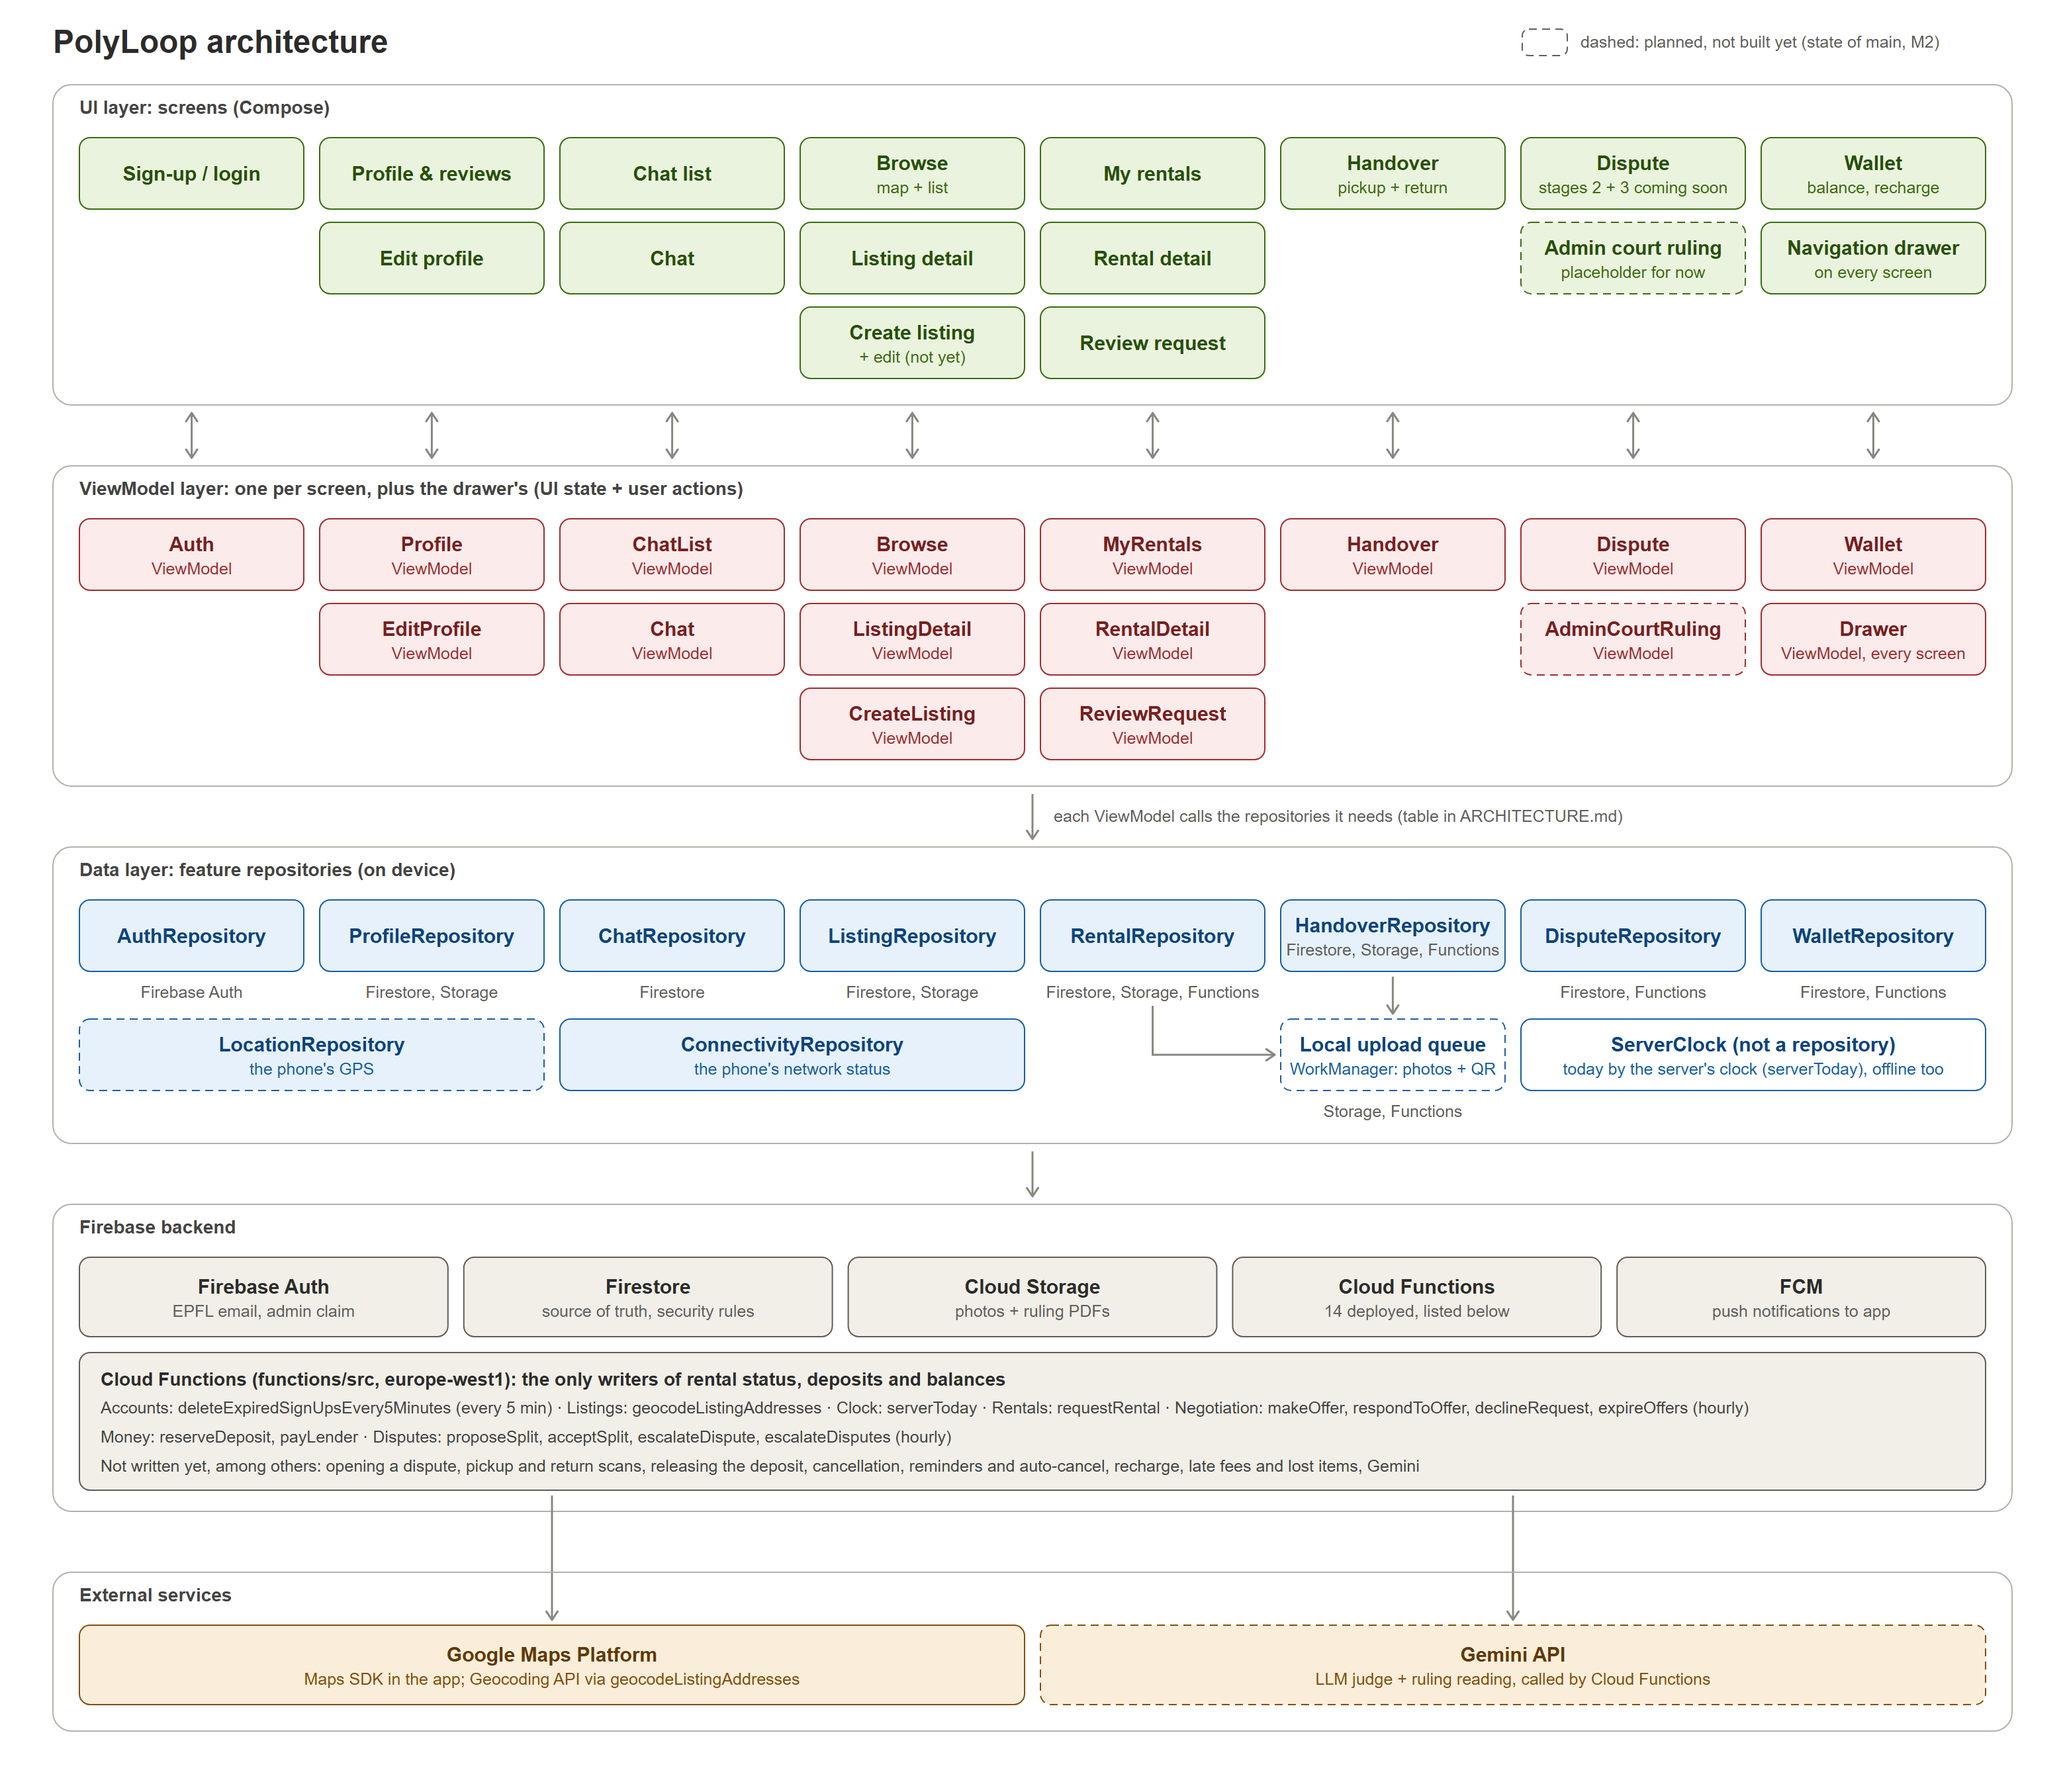
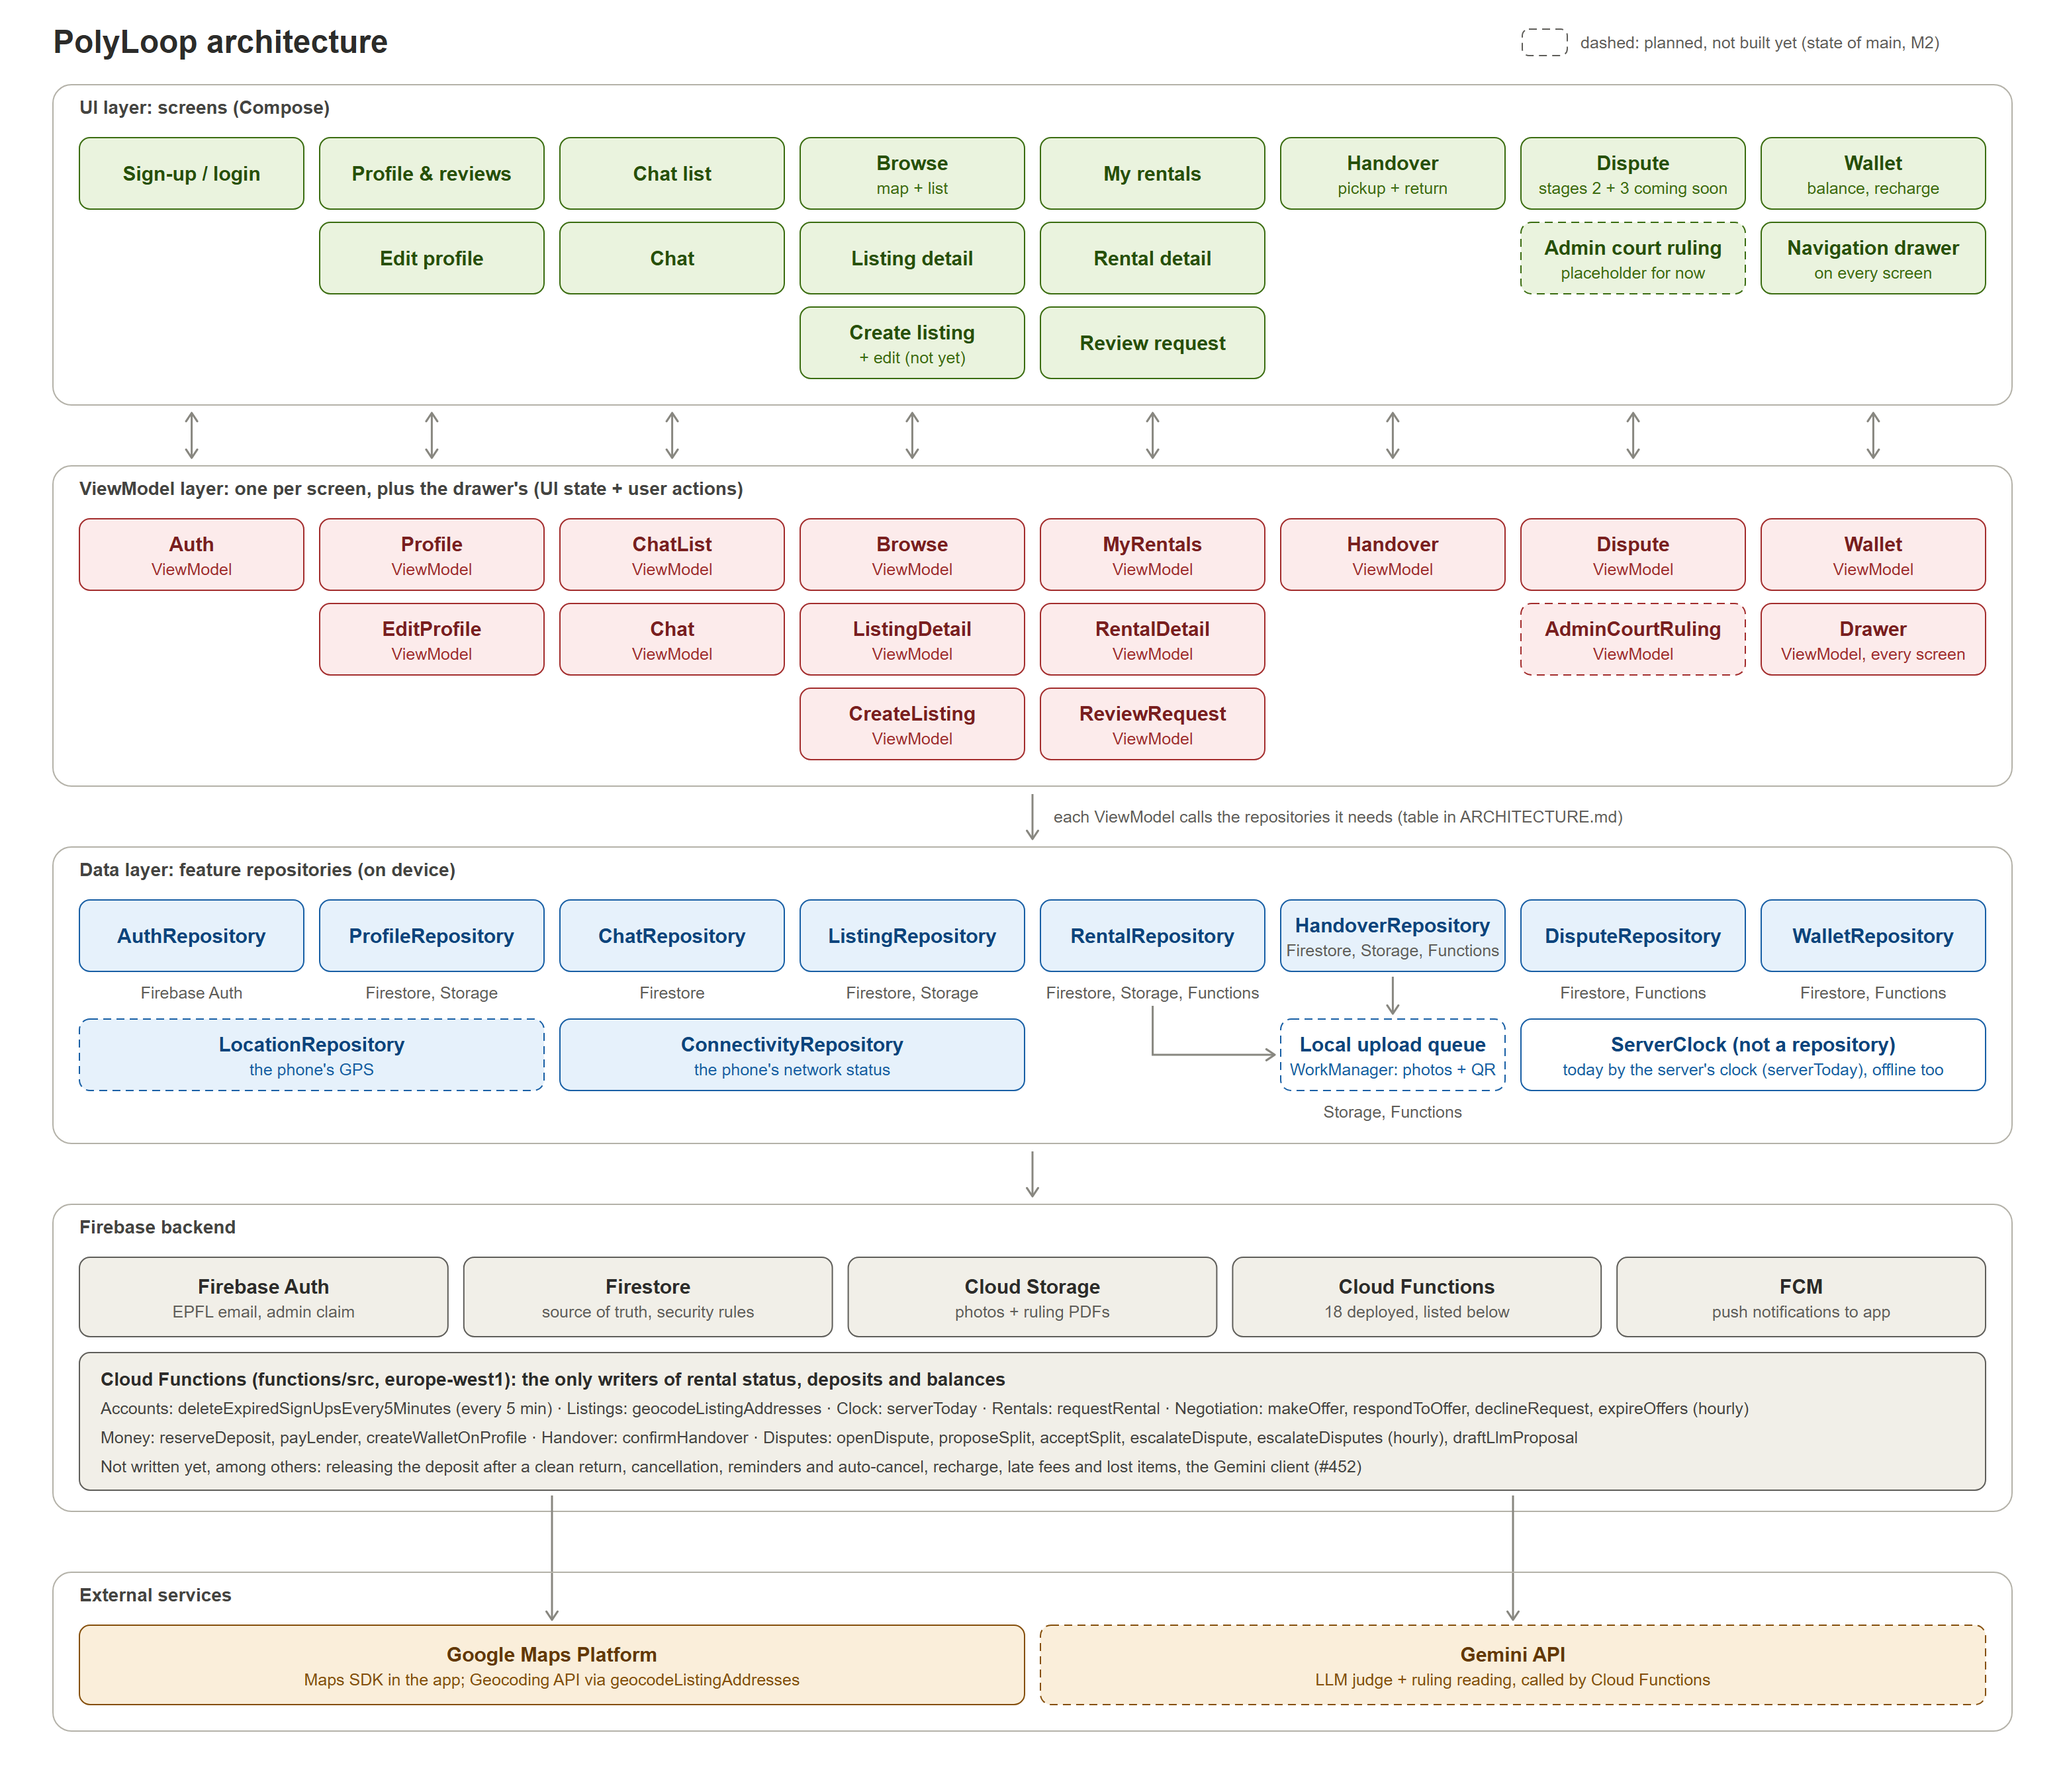
fix: address the review of openDispute
Brings the diagram up to date, moves RENTAL_CHANGED to a shared module and removes duplicate or language-bound tests.
- polyloop_architecture.svg/.png: list all 18 Functions (adds openDispute, createWalletOnProfile, confirmHandover, draftLlmProposal); Not written yet now names only the deposit release after a clean return and the Gemini client (#452); PNG regenerated.
- rentalRules.ts: now holds RENTAL_CHANGED, shared by the handover and dispute Functions.
- handover.ts: imports RENTAL_CHANGED, its comment now covers WRONG_CODE only.
- dispute.ts: imports RENTAL_CHANGED from rentalRules.ts; the Item is fine example waits for #491.
- handover.test.ts: imports RENTAL_CHANGED from rentalRules.ts.
- openDispute.test.ts: the Item is fine example waits for #491.
- disputeCallables.test.ts: drop the RENTAL_CHANGED test, covered by the lost-race test and openDispute.test.ts.
- DisputeRepositoryFirestoreTest.kt: RENTAL_CHANGED joins anyOtherRefusalStaysAsItIs, which now also checks openDispute.
- HandoverReturnConfirmTest.kt: reads the Not available yet text from R.string.

Changed region(s): [[0.0622, 0.7789, 0.7772, 0.8412]]

diff --git a/app/src/androidTest/java/com/swent/polyloop/ui/handover/HandoverReturnConfirmTest.kt b/app/src/androidTest/java/com/swent/polyloop/ui/handover/HandoverReturnConfirmTest.kt
@@ -21,6 +21,8 @@ import androidx.compose.ui.test.onNodeWithTag
 import androidx.compose.ui.test.performClick
 import androidx.compose.ui.test.performScrollTo
 import androidx.test.ext.junit.runners.AndroidJUnit4
+import androidx.test.platform.app.InstrumentationRegistry
+import com.swent.polyloop.R
 import com.swent.polyloop.model.auth.AuthUser
 import com.swent.polyloop.model.auth.FakeAuthRepository
 import com.swent.polyloop.model.connectivity.FakeConnectivityRepository
@@ -142,12 +144,16 @@ class HandoverReturnConfirmTest {
   @Test
   fun onlyItemIsFineSaysItIsNotAvailableYet() {
     setContent(check)
+    val notAvailable =
+        InstrumentationRegistry.getInstrumentation()
+            .targetContext
+            .getString(R.string.not_available_yet)
 
     composeTestRule
         .onNodeWithTag(C.Tag.handover_item_fine_not_available)
         .performScrollTo()
-        .assertTextEquals("Not available yet")
-    composeTestRule.onAllNodesWithText("Not available yet").assertCountEquals(1)
+        .assertTextEquals(notAvailable)
+    composeTestRule.onAllNodesWithText(notAvailable).assertCountEquals(1)
   }
 
   @Test

diff --git a/app/src/test/java/com/swent/polyloop/model/dispute/DisputeRepositoryFirestoreTest.kt b/app/src/test/java/com/swent/polyloop/model/dispute/DisputeRepositoryFirestoreTest.kt
@@ -110,6 +110,8 @@ class DisputeRepositoryFirestoreTest {
         listOf(
             refusedWith(details = null),
             refusedWith(mapOf("reason" to "SOMETHING_ELSE")),
+            // A rental no longer Returned (openDispute) is a plain failure, read by no screen.
+            refusedWith(mapOf("reason" to "RENTAL_CHANGED")),
             refusedWith(
                 mapOf("reason" to "STAGE_CHANGED"),
                 code = FirebaseFunctionsException.Code.PERMISSION_DENIED,
@@ -119,14 +121,8 @@ class DisputeRepositoryFirestoreTest {
     refusals.forEach { refusal ->
       every { callable.call(any()) } returns Tasks.forException(refusal)
       assertSame(refusal, repository.propose("r1", 40).exceptionOrNull())
+      assertSame(refusal, repository.openDispute("r1").exceptionOrNull())
     }
-  }
-
-  @Test
-  fun aRentalNoLongerReturnedIsAPlainFailureOfOpenDispute() = runTest {
-    val refusal = refusedWith(mapOf("reason" to "RENTAL_CHANGED"))
-
-    assertSame(refusal, repository.openDispute("r1").exceptionOrNull())
   }
 
   // ---------- observeDispute ----------

diff --git a/functions/src/dispute.ts b/functions/src/dispute.ts
@@ -16,9 +16,8 @@ import {
   STAGE_CHANGED,
   SplitInput,
 } from "./disputeRules";
-import { RENTAL_CHANGED } from "./handover";
 import { writeWithSystemMessage } from "./negotiation";
-import { RequestError, requireParties } from "./rentalRules";
+import { RENTAL_CHANGED, RequestError, requireParties } from "./rentalRules";
 import { SweepCounts, runSweep } from "./sweep";
 import { depositToSettle, readDepositSettlement, writeDepositSettlement } from "./wallet";
 
@@ -183,7 +182,7 @@ export async function escalateDispute(
  * @param rentalId the rental whose item came back damaged.
  * @param now the current time, from which `escalatesAt` is counted; passed so tests can set it.
  * @throws RequestError `not-found`; `permission-denied` (not the lender); `failed-precondition`
- *   with the reason `RENTAL_CHANGED` (no longer RETURNED, e.g. the lender's "Item is fine" won).
+ *   with the reason `RENTAL_CHANGED` (no longer RETURNED, e.g. the lender's "Item is fine" won, once #491 exists).
  *   Nothing is written then.
  */
 export async function openDispute(

diff --git a/functions/src/handover.ts b/functions/src/handover.ts
@@ -15,12 +15,21 @@ import {
   readLenderPayment,
   writeLenderPayment,
 } from "./payLender";
-import { RequestError, asFields, isDateString, parseText, requireParties } from "./rentalRules";
+import {
+  RENTAL_CHANGED,
+  RequestError,
+  asFields,
+  isDateString,
+  parseText,
+  requireParties,
+} from "./rentalRules";
 import { zurichDay } from "./serverToday";
 
-/** The reasons of a refusal the app reads (`details.reason`), see docs/ARCHITECTURE.md. */
+/**
+ * The reason (`details.reason`) of a refused scan whose code is wrong, read by the app, see
+ * docs/ARCHITECTURE.md. A rental that changed meanwhile is `RENTAL_CHANGED` (rentalRules.ts).
+ */
 export const WRONG_CODE = "WRONG_CODE";
-export const RENTAL_CHANGED = "RENTAL_CHANGED";
 
 /**
  * The statuses a rental reaches only once its item is back: a return scan on one of them was

diff --git a/functions/src/disputeCallables.test.ts b/functions/src/disputeCallables.test.ts
@@ -135,19 +135,6 @@ describe("openDispute", () => {
     expect(await openDispute.run(asUser(LENDER, { rentalId: id }))).toEqual({});
     expect((await dispute(id))?.stage).toBe("SETTLE");
   });
-
-  it("gives the app RENTAL_CHANGED in the HttpsError's details", async () => {
-    const id = await disputed();
-    await db.collection("disputes").doc(id).delete();
-
-    const error = await openDispute.run(asUser(LENDER, { rentalId: id })).catch((e) => e);
-
-    expect(error).toBeInstanceOf(HttpsError);
-    expect(error).toMatchObject({
-      code: "failed-precondition",
-      details: { reason: "RENTAL_CHANGED" },
-    });
-  });
 });
 
 describe("the whole direct settlement", () => {

diff --git a/functions/src/rentalRules.ts b/functions/src/rentalRules.ts
@@ -18,6 +18,12 @@ export type RequestErrorCode =
   | "internal";
 
 /**
+ * The reason (`details.reason`) of a refusal because the rental's status changed meanwhile, e.g. it
+ * was cancelled, or "Item is fine" was sent first (once #491 exists). The app reads it, never the message.
+ */
+export const RENTAL_CHANGED = "RENTAL_CHANGED";
+
+/**
  * A refused request: a code, a message for the user, and, when the request lost a race, the reason
  * the app reads in `details` (e.g. `{reason: "STAGE_CHANGED"}`, see disputeRules.ts).
  */

diff --git a/functions/src/openDispute.test.ts b/functions/src/openDispute.test.ts
@@ -103,7 +103,7 @@ describe("openDispute", () => {
   });
 
   it("refuses a rental that is not RETURNED with RENTAL_CHANGED, and writes nothing", async () => {
-    // CLOSED stands for "Item is fine" sent first; DISPUTED without a dispute is corrupt data.
+    // CLOSED stands for "Item is fine" sent first (once #491 exists); DISPUTED without a dispute is corrupt data.
     for (const status of ["ACTIVE", "CLOSED", "DISPUTED"]) {
       const id = await rentalWith(status);
 

diff --git a/functions/src/handover.test.ts b/functions/src/handover.test.ts
@@ -4,13 +4,13 @@ import { getApps, initializeApp } from "firebase-admin/app";
 import { Firestore, getFirestore } from "firebase-admin/firestore";
 import { codeFingerprint } from "./handoverCode";
 import {
-  RENTAL_CHANGED,
   ALREADY_RETURNED_STATUSES,
   WRONG_CODE,
   confirmPickup,
   confirmReturn,
   isReturnDay,
 } from "./handover";
+import { RENTAL_CHANGED } from "./rentalRules";
 import { hasSeenLastMessage } from "./testing/readTimes";
 import {
   People,
